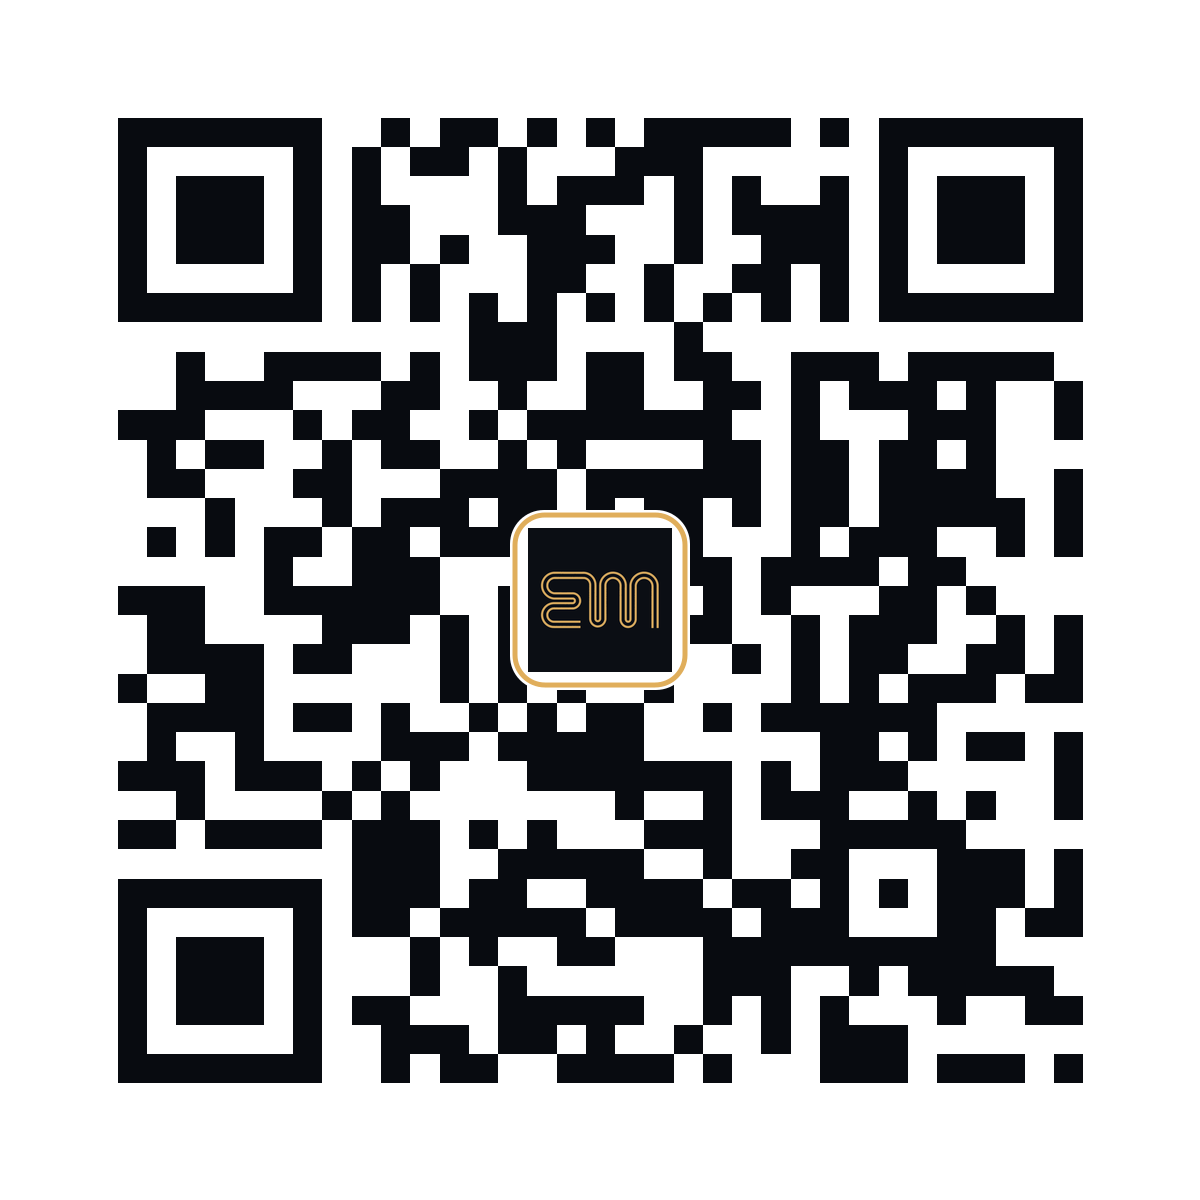
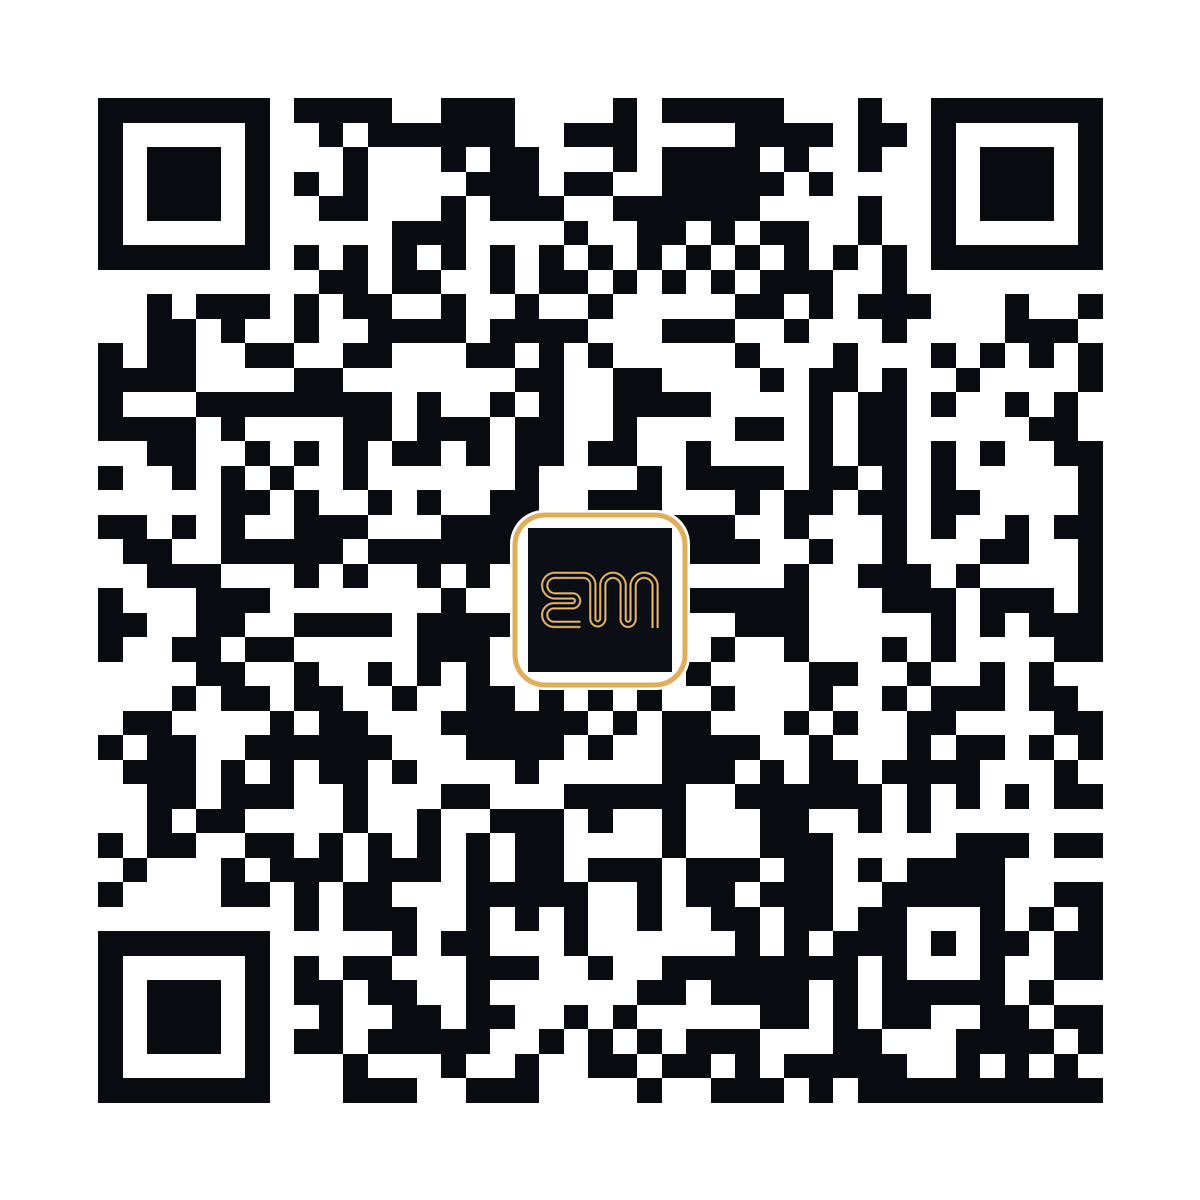
Enable direct Android download QR flow

diff --git a/download/index.html b/download/index.html
@@ -9,9 +9,9 @@
   <meta property="og:title" content="下载 BMESC">
   <meta property="og:description" content="BMESC 官方 iOS 与 Android 下载入口">
   <meta property="og:type" content="website">
-  <meta property="og:url" content="https://download.floatw.com/">
-  <meta property="og:image" content="https://download.floatw.com/assets/bmesc-icon.png">
-  <link rel="canonical" href="https://download.floatw.com/">
+  <meta property="og:url" content="https://bmyyqzs.github.io/BMESC_APP/download/">
+  <meta property="og:image" content="https://bmyyqzs.github.io/BMESC_APP/download/assets/bmesc-icon.png">
+  <link rel="canonical" href="https://bmyyqzs.github.io/BMESC_APP/download/">
   <link rel="icon" href="assets/bmesc-icon.png">
   <link rel="apple-touch-icon" href="assets/bmesc-icon.png">
   <title>下载 BMESC</title>
@@ -446,7 +446,7 @@
         privacyUrl: "https://bmyyqzs.github.io/BMESC_APP/app-store/privacy-policy.html",
         channels: {
           ios: { status: "live", version: "1.0.0", url: "https://apps.apple.com/cn/app/id6782801007" },
[2 lines of base64/hex data omitted]
           googlePlay: { status: "live", version: "1.00", url: "https://play.google.com/store/apps/details?id=com.bmesc.app" }
         }
       };
